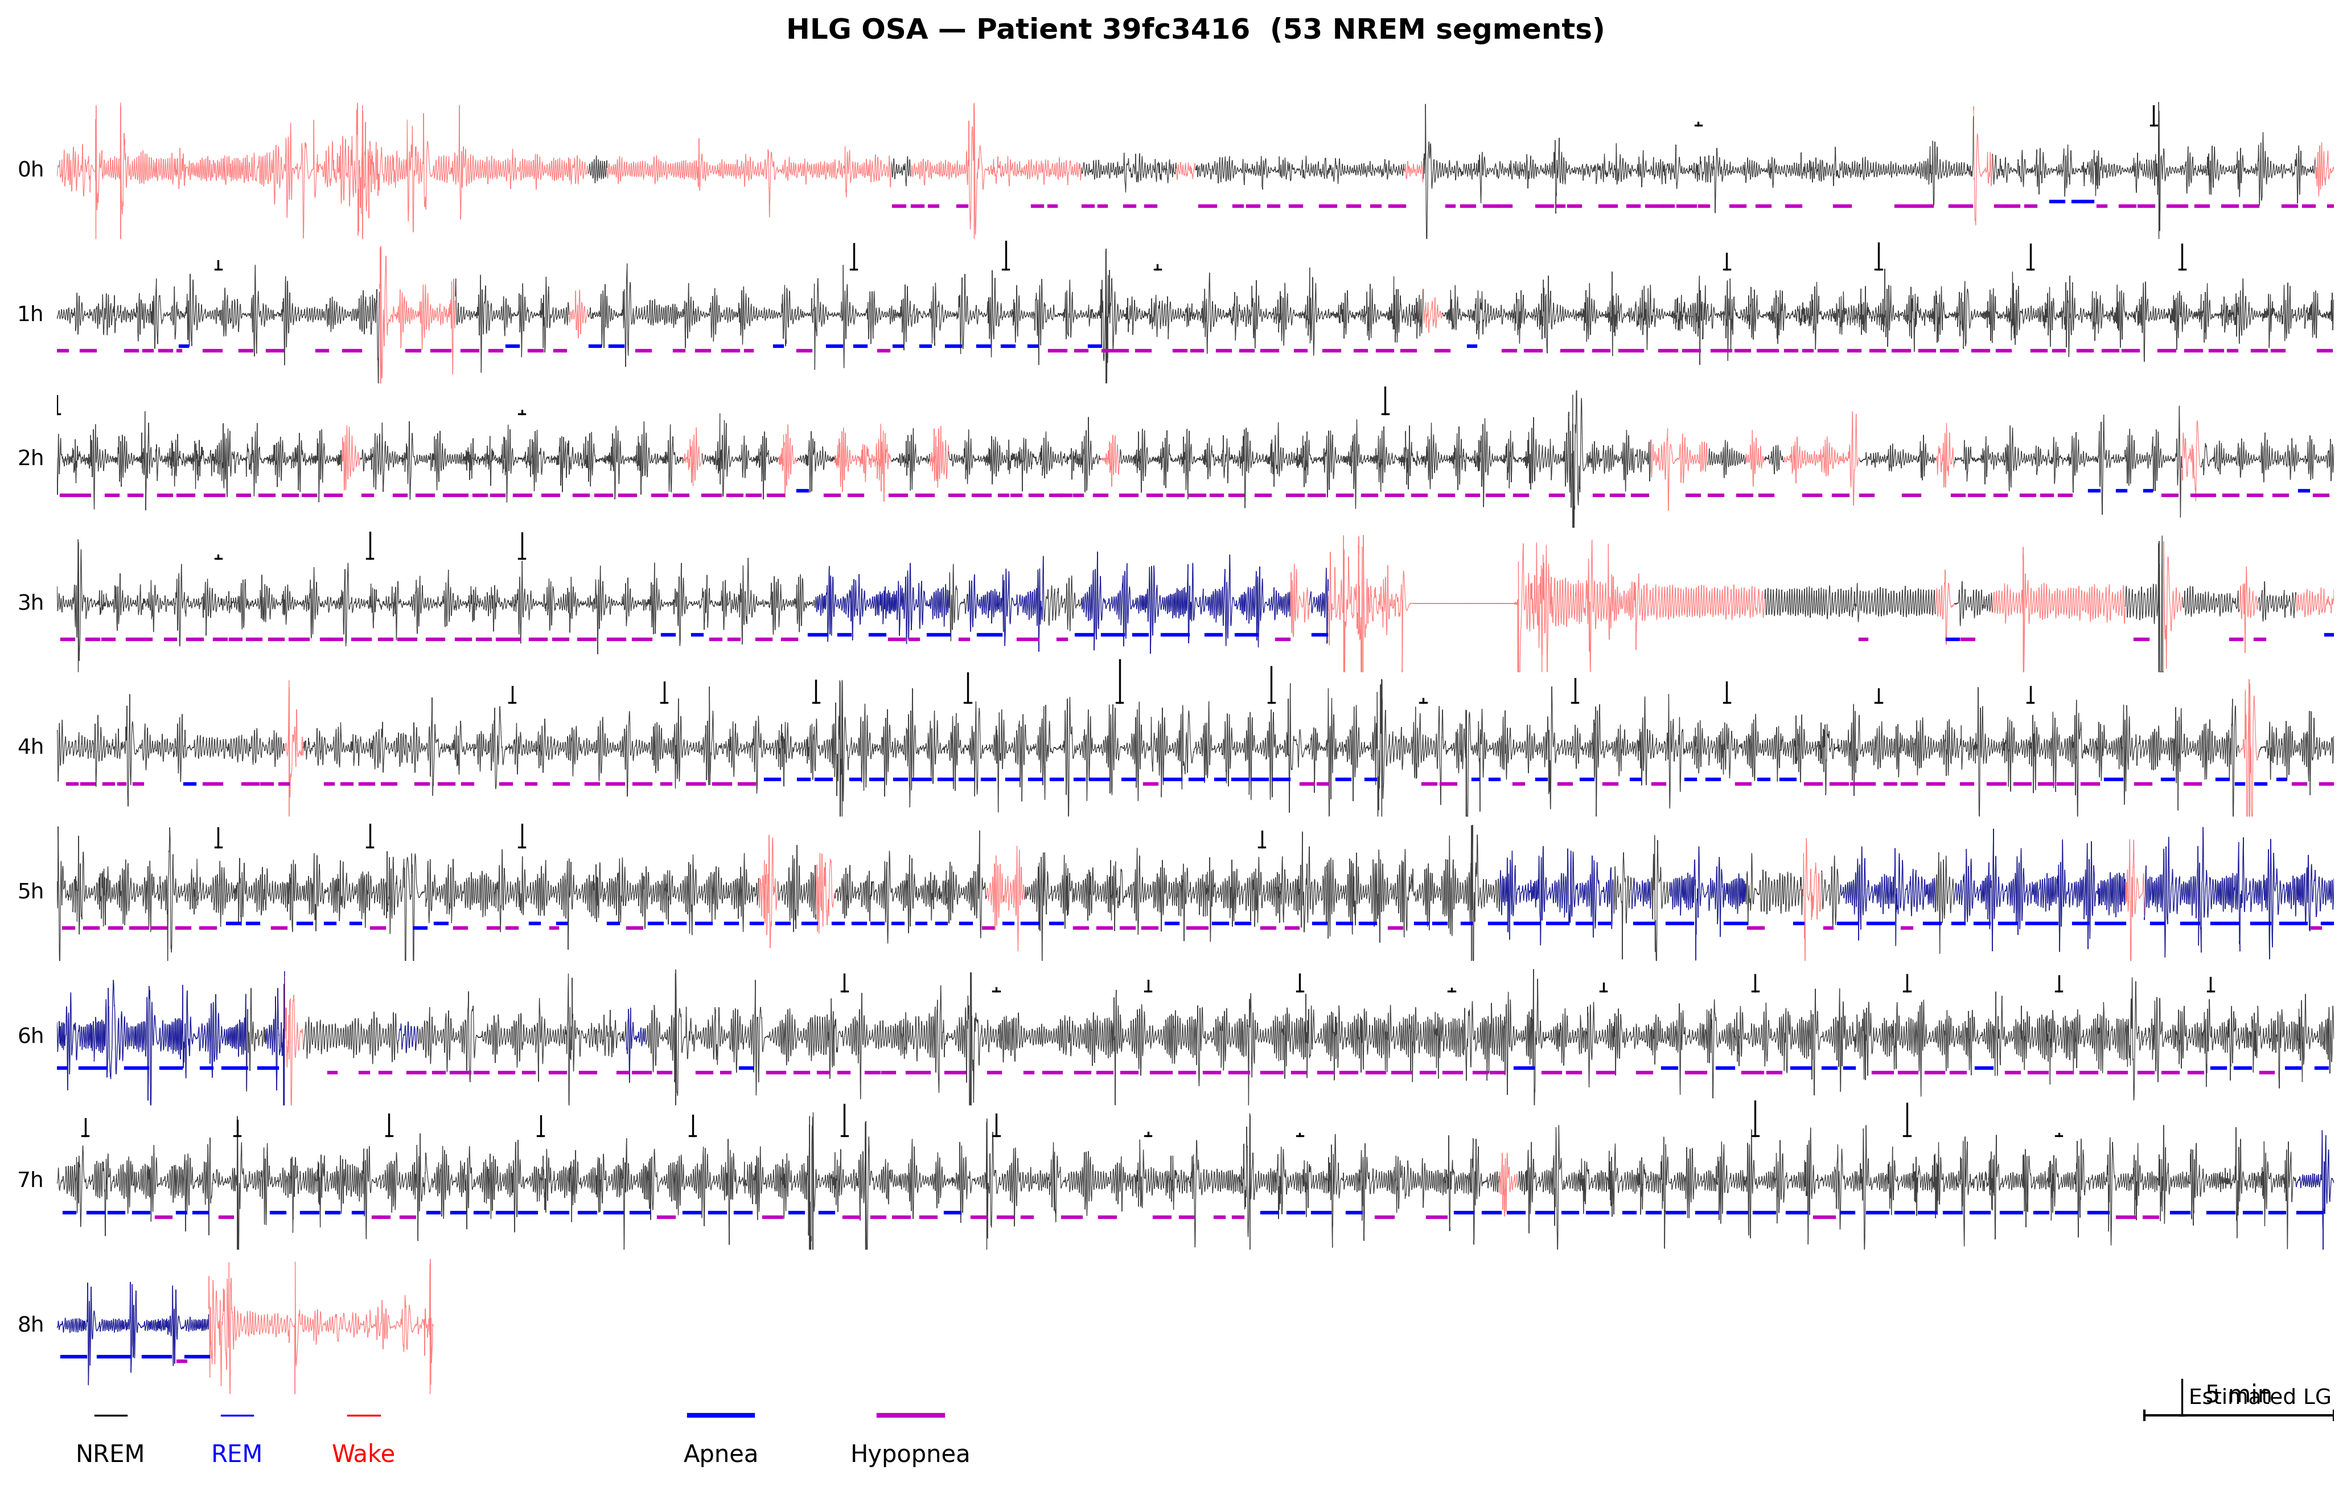
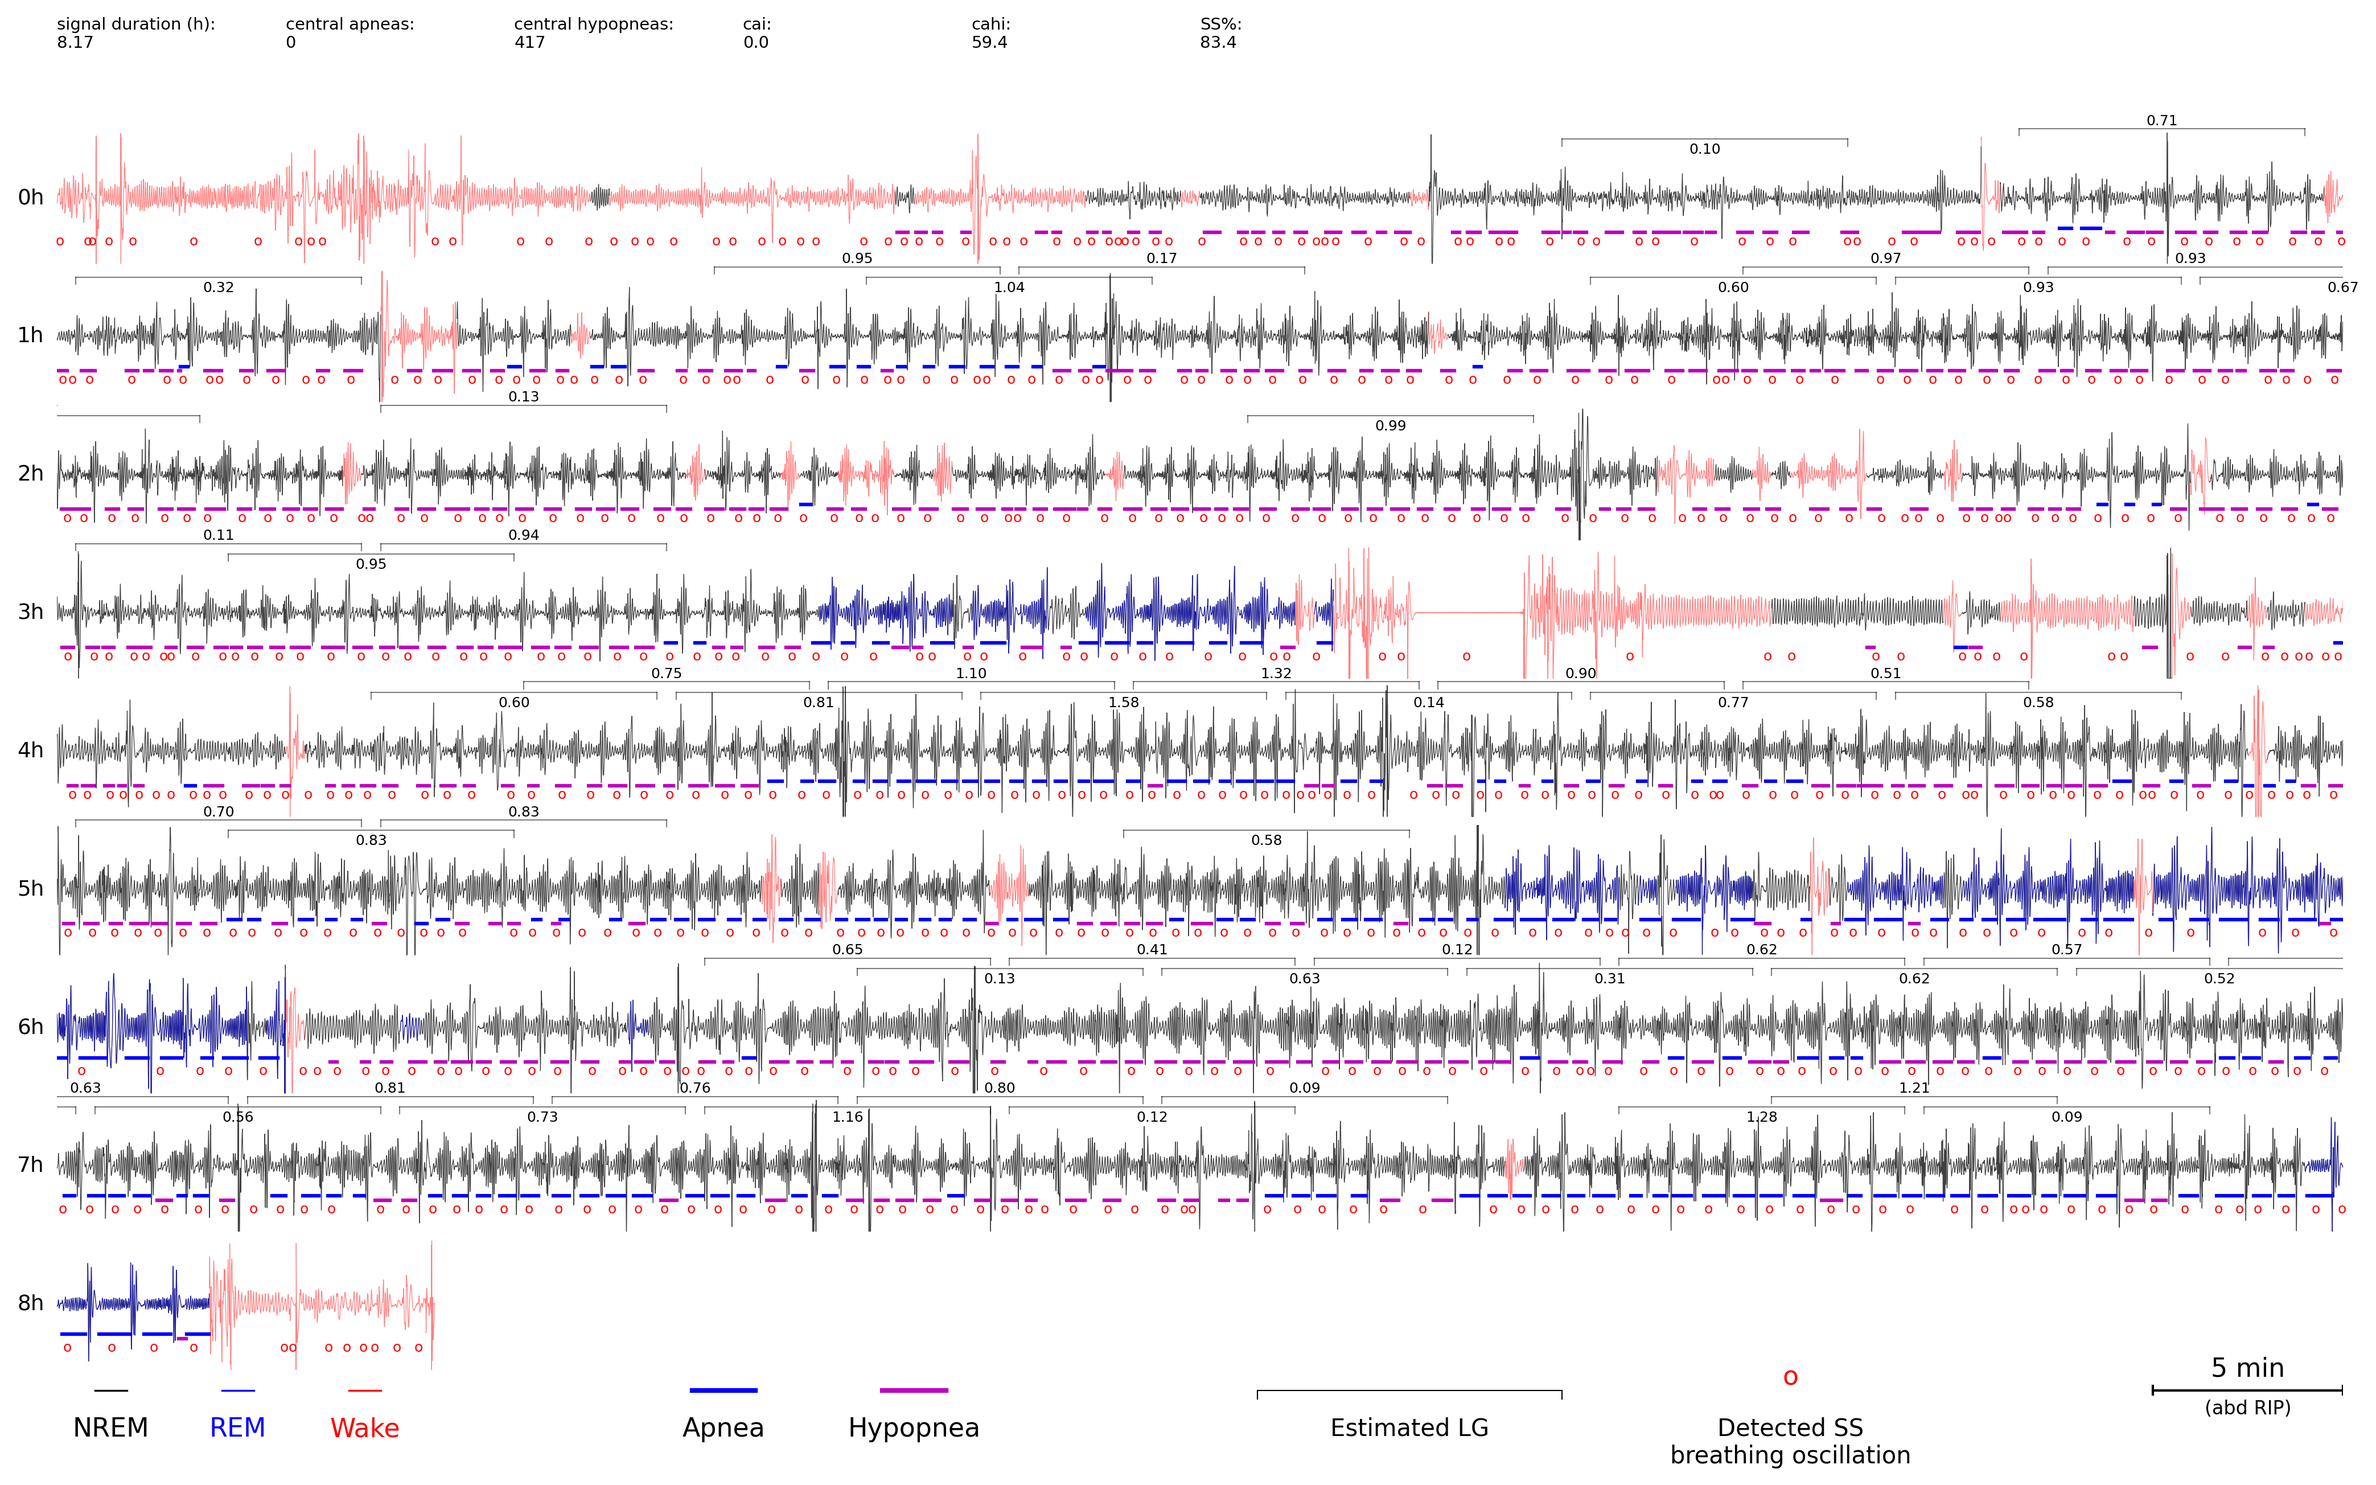
Enhance Figure 2 full-night plots to match paper
Add missing visual elements to generate_full_night_from_csv():
- Summary statistics header (signal duration, central apneas/hypopneas,
  CAI, CAHI, SS%)
- Proper LG bracket annotations with numeric values over each NREM
  segment, with alternating heights and faded low-confidence segments
- SS breathing oscillation "o" markers (red)
- Complete legend: Estimated LG bracket, Detected SS breathing
  oscillation marker, "(abd RIP)" label on scale bar
- Split brackets for segments crossing hour boundaries

New helper functions: _find_row_location(), _compute_summary_stats(),
_add_lg_hooks_csv()

diff --git a/python/scripts/run_paper_figures.py b/python/scripts/run_paper_figures.py
@@ -506,8 +506,135 @@ def generate_paper_panels() -> None:
 # Figure 2: Full-night overview with LG hooks
 # ─────────────────────────────────────────────────────────────────────
 
+def _find_row_location(loc: int, row_ids: list[np.ndarray]) -> tuple[int, int]:
+    """Map global sample index to (x_within_row, row_index)."""
+    for i, row in enumerate(row_ids):
+        match = np.where(loc == row)[0]
+        if len(match) > 0:
+            return int(match[0]), i
+    raise ValueError(f"Sample {loc} not found in any row")
+
+
+def _compute_summary_stats(T: pd.DataFrame, Fs: int) -> dict:
+    """Compute summary statistics header from CSV data."""
+    n_samples = len(T)
+    signal_duration_h = round(n_samples / Fs / 3600, 2)
+
+    apnea = T["Apnea"].values.astype(float)
+    stages = T["Stage"].values.astype(float)
+
+    # Count central apneas (value 3) and central hypopneas (value 4)
+    # Apnea encoding: 1=obstructive, 2=mixed, 3=central, 4=hypopnea
+    central_apneas = 0
+    central_hypopneas = 0
+    for val, grp in groupby(apnea):
+        if np.isfinite(val) and int(val) == 3:
+            central_apneas += 1
+        elif np.isfinite(val) and int(val) == 4:
+            central_hypopneas += 1
+
+    # Sleep time in hours (stages 1-4, excluding wake=5)
+    sleep_mask = np.isin(stages, [1, 2, 3, 4])
+    sleep_hours = np.sum(sleep_mask) / Fs / 3600
+    cai = round(central_apneas / sleep_hours, 1) if sleep_hours > 0 else 0
+    cahi = round((central_apneas + central_hypopneas) / sleep_hours, 1) if sleep_hours > 0 else 0
+
+    # SS percentage from per-segment scores
+    ss_scores = T["nrem_SS_score"].dropna().values
+    ss_pct = round(float(np.mean(ss_scores) * 100), 1) if len(ss_scores) > 0 else 0
+
+    return {
+        "signal duration (h)": signal_duration_h,
+        "central apneas": central_apneas,
+        "central hypopneas": central_hypopneas,
+        "cai": cai,
+        "cahi": cahi,
+        "SS%": ss_pct,
+    }
+
+
+def _add_lg_hooks_csv(
+    ax: plt.Axes,
+    nrem_starts: np.ndarray,
+    nrem_ends: np.ndarray,
+    lg_values: np.ndarray,
+    row_ids: list[np.ndarray],
+    nrow: int,
+    row_height: int,
+    Fs: int,
+    apnea: np.ndarray,
+) -> None:
+    """Draw LG bracket annotations matching the paper's style.
+
+    For each NREM segment, draws a horizontal bracket spanning the
+    segment with vertical hooks at each end and the LG value centered
+    above.  Segments with < 4 respiratory events are drawn faded.
+    """
+    len_x = len(row_ids[-1])
+
+    for i in range(min(len(nrem_starts), len(lg_values))):
+        st = nrem_starts[i]
+        end = nrem_ends[i]
+        lg_val = lg_values[i]
+
+        if not np.isfinite(lg_val) or lg_val <= 0:
+            continue
+
+        try:
+            x_st, y_st = _find_row_location(st, row_ids)
+            x_end, y_end = _find_row_location(min(end, row_ids[0][-1]), row_ids)
+        except ValueError:
+            continue
+
+        # Vertical offset: alternate between two levels to avoid overlap
+        up_st = y_st * row_height + 0.425 * row_height
+        up_end = y_end * row_height + 0.425 * row_height
+        yy = up_st if i % 2 == 0 else up_st + 0.075 * row_height
+        yy_ = up_end if i % 2 == 0 else up_end + 0.075 * row_height
+        hook = yy - 0.05 * row_height
+        hook_ = yy_ - 0.05 * row_height
+        shift = yy - 0.025 * row_height if i % 2 == 0 else yy + 0.01 * row_height
+        shift_ = yy_ - 0.025 * row_height if i % 2 == 0 else yy_ + 0.01 * row_height
+        va = "top" if i % 2 == 0 else "bottom"
+
+        # Count respiratory events in this segment for confidence
+        seg_apnea = apnea[st:end]
+        n_events = len(_find_events(seg_apnea > 0))
+        lg_alpha = 1.0 if n_events >= 4 else 0.3
+        hook_alpha = 0.5 if lg_alpha == 1 else 0.3
+
+        tag_text = f"{lg_val:.2f}"
+        pad = 15 * Fs
+
+        if y_st == y_end:
+            # Segment fits in one row — draw bracket with hooks
+            ax.plot([x_st + pad, x_end - pad], [yy, yy], "k", lw=0.5, alpha=hook_alpha)
+            ax.plot([x_st + pad] * 2, [yy, hook], "k", lw=0.5, alpha=hook_alpha)
+            ax.plot([x_end - pad] * 2, [yy, hook], "k", lw=0.5, alpha=hook_alpha)
+            x = (x_st + x_end) / 2
+            ax.text(x, shift, tag_text, fontsize=6, ha="center", va=va, alpha=lg_alpha)
+        else:
+            # Segment crosses row boundary — split bracket
+            ax.plot([x_st + pad, len_x], [yy, yy], "k", lw=0.5, alpha=hook_alpha)
+            ax.plot([x_st + pad] * 2, [yy, hook], "k", lw=0.5, alpha=hook_alpha)
+            ax.plot([0, x_end - pad], [yy_, yy_], "k", lw=0.5, alpha=hook_alpha)
+            ax.plot([x_end - pad] * 2, [yy_, hook_], "k", lw=0.5, alpha=hook_alpha)
+            half_win = 4 * 60 * Fs
+            if x_st + half_win <= len_x:
+                ax.text(x_st + half_win, shift, tag_text, fontsize=6, ha="center", va=va, alpha=lg_alpha)
+            else:
+                ax.text(x_end - half_win, shift_, tag_text, fontsize=6, ha="center", va=va, alpha=lg_alpha)
+
+
 def generate_full_night_from_csv(study_info: dict) -> None:
-    """Generate full-night overview with LG hooks directly from CSV data."""
+    """Generate full-night overview with LG hooks directly from CSV data.
+
+    Matches the paper's Figure 2 style including:
+    - Summary statistics header (signal duration, central apneas/hypopneas, CAI, CAHI, SS%)
+    - LG bracket annotations with numeric values over each NREM segment
+    - SS breathing oscillation "o" markers
+    - Complete legend with scale bar, event types, and LG bracket example
+    """
     csv_path = os.path.join(DATA_DIR, study_info["csv"])
     T = pd.read_csv(csv_path)
     Fs = int(T["Fs"].iloc[0])
@@ -519,14 +646,12 @@ def generate_full_night_from_csv(study_info: dict) -> None:
     signal = T["ABD"].values.astype(float)
     stages = T["Stage"].values.astype(float)
     apnea = T["Apnea"].values.astype(float)
-    spo2 = T["SpO2"].values.astype(float)
+    d_i_abd_smooth = T["d_i_ABD_smooth"].values.astype(float)
 
     # LG per-segment data
     nrem_starts = T["nrem_starts"].dropna().values.astype(int)
     nrem_ends = T["nrem_ends"].dropna().values.astype(int)
     lg_nrem = T["LG_nrem"].dropna().values
-    g_nrem = T["G_nrem"].dropna().values
-    d_nrem = T["D_nrem"].dropna().values
 
     # Row layout: each row = 1 hour
     block = 60 * 60 * Fs
@@ -534,6 +659,8 @@ def generate_full_night_from_csv(study_info: dict) -> None:
     n_rows = (n_samples + block - 1) // block
     row_ids = [np.arange(i * block, min((i + 1) * block, n_samples)) for i in range(n_rows)]
     row_ids.reverse()
+    # Extend the last (now first) row to cover the final partial hour
+    row_ids[0] = np.arange(row_ids[0][0], n_samples)
     nrow = len(row_ids)
 
     fig = plt.figure(figsize=(14, 9))
@@ -568,47 +695,45 @@ def generate_full_night_from_csv(study_info: dict) -> None:
                 ax.plot([loc, loc + len_j], [ri * row_height - shift] * 2, c=label_color[int(val)], lw=1.5)
             loc += len_j
 
-    # LG hooks
-    for seg_idx in range(min(len(nrem_starts), len(lg_nrem))):
-        s = nrem_starts[seg_idx]
-        e = nrem_ends[seg_idx]
-        lg_val = lg_nrem[seg_idx]
+    # SS breathing oscillation markers (where d_i_ABD_smooth drops below 1)
+    below_thresh = (d_i_abd_smooth < 1).astype(float)
+    for ri in range(nrow):
+        loc = 0
+        for val, grp in groupby(below_thresh[row_ids[ri]]):
+            len_j = len(list(grp))
+            if val == 1 and len_j > Fs:  # at least 1 second
+                mid = loc + len_j // 2
+                ax.text(mid, ri * row_height - 5, "o", c="r", fontsize=6,
+                        ha="center", va="center")
+            loc += len_j
 
-        if not np.isfinite(lg_val) or lg_val <= 0:
-            continue
-
-        mid = (s + e) // 2
-        row_idx = nrow - 1 - mid // block
-        if row_idx < 0 or row_idx >= nrow:
-            continue
-
-        x_pos = mid % block
-        hook_height = min(lg_val * 3, 12)
-        hook_y = row_idx * row_height + 5
-
-        ax.plot([x_pos, x_pos], [hook_y, hook_y + hook_height], c="k", lw=0.8)
-        ax.plot([x_pos - 50, x_pos + 50], [hook_y] * 2, c="k", lw=0.8)
+    # LG bracket hooks with numeric values
+    _add_lg_hooks_csv(ax, nrem_starts, nrem_ends, lg_nrem, row_ids, nrow, row_height, Fs, apnea)
 
     # Layout
     max_row_len = max(len(x) for x in row_ids)
+    len_x = len(row_ids[-1])
     ax.set_xlim([0, max_row_len])
     ax.axis("off")
+
+    # ── Summary statistics header ──────────────────────────────────────
+    stats = _compute_summary_stats(T, Fs)
+    offset = row_height * (nrow - 1) + 17
+    dx = len_x // 10
+    for i, (key, val) in enumerate(stats.items()):
+        tag = f"{key}:\n{val}"
+        ax.text(i * dx, offset, tag, fontsize=7, ha="left", va="bottom")
 
     # Hour labels
     for ri in range(nrow):
         hour = nrow - 1 - ri
         ax.text(-200, ri * row_height, f"{hour}h", fontsize=9, ha="right", va="center")
 
-    # Title
-    ax.text(
-        max_row_len / 2, (nrow - 1) * row_height + 14,
-        f"{group} — Patient {patient_id}  ({len(nrem_starts)} NREM segments)",
-        fontsize=12, ha="center", va="bottom", fontweight="bold",
-    )
-
-    # Legend
+    # ── Bottom legend ──────────────────────────────────────────────────
     y_legend = -10
-    fz = 10
+    fz = 11
+
+    # Sleep-state line types
     line_types = ["NREM", "REM", "Wake"]
     line_colors = ["k", "b", "r"]
     for i, (color, e_type) in enumerate(zip(line_colors, line_types)):
@@ -616,6 +741,7 @@ def generate_full_night_from_csv(study_info: dict) -> None:
         ax.plot([x, x + 50 * Fs], [y_legend] * 2, c=color, lw=0.8)
         ax.text(x + 25 * Fs, y_legend - 3, e_type, fontsize=fz, c=color, ha="center", va="top")
 
+    # Event types
     event_types = ["Apnea", "Hypopnea"]
     ev_colors = ["b", "m"]
     for i, (color, e_type) in enumerate(zip(ev_colors, event_types)):
@@ -623,19 +749,32 @@ def generate_full_night_from_csv(study_info: dict) -> None:
         ax.plot([x, x + 100 * Fs], [y_legend] * 2, c=color, lw=2)
         ax.text(x + 50 * Fs, y_legend - 3, e_type, fontsize=fz, ha="center", va="top")
 
-    # LG hook legend
-    lg_x = max_row_len - 4 * 60 * Fs
-    ax.plot([lg_x, lg_x], [y_legend, y_legend + 4], c="k", lw=0.8)
-    ax.plot([lg_x - 50, lg_x + 50], [y_legend] * 2, c="k", lw=0.8)
-    ax.text(lg_x + 100, y_legend + 2, "Estimated LG", fontsize=fz - 1, ha="left", va="center")
+    # Estimated LG bracket legend
+    dur_8min = 8 * 60 * Fs
+    left = len_x - 4.75 * dx
+    right = left + dur_8min
+    ax.text(left + dur_8min / 2, y_legend - 3, "Estimated LG", color="k",
+            fontsize=fz - 1, ha="center", va="top")
+    ax.plot([left, right], [y_legend] * 2, color="k", lw=0.5)
+    ax.plot([left] * 2, [y_legend - 1, y_legend], color="k", lw=0.5)
+    ax.plot([right] * 2, [y_legend - 1, y_legend], color="k", lw=0.5)
 
-    # Duration scale bar
+    # Detected SS breathing oscillation marker
+    ax.text(len_x - 60 * Fs * 2.5 - 2 * dx, y_legend - 3, "Detected SS\nbreathing oscillation",
+            color="k", fontsize=fz - 1, ha="center", va="top")
+    ax.text(len_x - 60 * Fs * 2.5 - 2 * dx, y_legend, "o", c="r",
+            fontsize=fz, ha="center", va="bottom")
+
+    # Duration scale bar with "(abd RIP)" label
     dur_min = 5
     dur_samples = dur_min * 60 * Fs
-    ax.plot([max_row_len - dur_samples, max_row_len], [y_legend] * 2, color="k", lw=1)
-    ax.plot([max_row_len - dur_samples] * 2, [y_legend - 0.5, y_legend + 0.5], color="k", lw=1)
-    ax.plot([max_row_len] * 2, [y_legend - 0.5, y_legend + 0.5], color="k", lw=1)
-    ax.text(max_row_len - dur_samples / 2, y_legend + 1, f"{dur_min} min", fontsize=fz, ha="center", va="bottom")
+    ax.plot([len_x - dur_samples, len_x], [y_legend] * 2, color="k", lw=1)
+    ax.plot([len_x - dur_samples] * 2, [y_legend - 0.5, y_legend + 0.5], color="k", lw=1)
+    ax.plot([len_x] * 2, [y_legend - 0.5, y_legend + 0.5], color="k", lw=1)
+    ax.text(len_x - dur_samples / 2, y_legend + 1, f"{dur_min} min", fontsize=fz,
+            ha="center", va="bottom")
+    ax.text(len_x - dur_samples / 2, y_legend - 1, "(abd RIP)", color="k",
+            fontsize=8, ha="center", va="top")
 
     plt.tight_layout()
     out_path = os.path.join(FIG_DIR, "full_night", f"full_night_{patient_id}_{group.replace(' ', '_')}.png")
